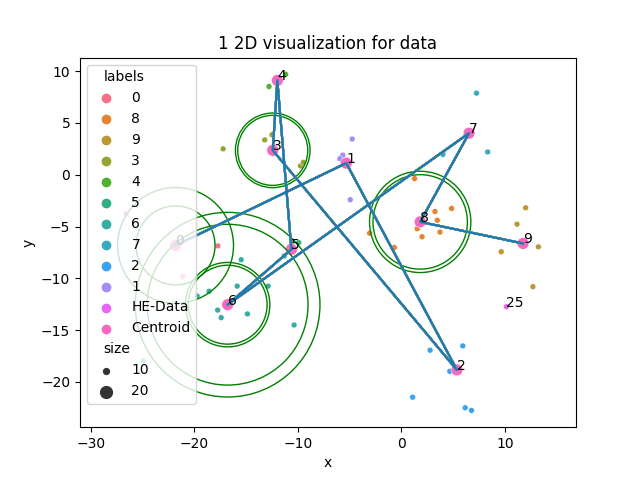
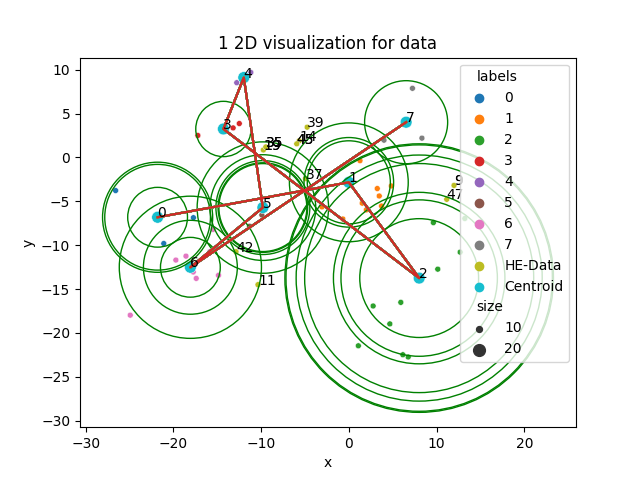
STABLE: using more HE points and comparing with all clusters (not just neighbors); need to fix empty partitions too

diff --git a/run_tests/test_he_data.py b/run_tests/test_he_data.py
@@ -3,6 +3,7 @@ sys.path.append("../")
 
 from utils.dataIO import *
 from base.HWKmeans import *
+from base.DCHWKmeans import *
 from pathlib import Path
 import time
 
@@ -17,7 +18,7 @@ Algo2: DCKMeans
 file_list = ['50_2_10.csv']
 
 # file_list = ['ijcnn.csv']
-# file_list = ['magic.csv']
+file_list = ['magic.csv']
 # file_list = ['user_knowledge_train.csv']
 # file_list = ['hapt_train.csv']
 # file_list = ['covertype.csv']
@@ -25,13 +26,13 @@ file_list = ['50_2_10.csv']
 # file_list = ['crop.csv']
 
 data_path = "/Users/schmuck/Documents/OneDrive - Indiana University/Box Sync/PhD/DATASETS"
-data_path = "/Users/schmuck/Library/CloudStorage/OneDrive-IndianaUniversity/Box Sync/PhD/DataCentricHartiganWongClustering"
+# data_path = "/Users/schmuck/Library/CloudStorage/OneDrive-IndianaUniversity/Box Sync/PhD/DataCentricHartiganWongClustering"
 
 # Make changes for adjusting the current directory here
 file_path = os.path.join(data_path, "clustering_data")
 # file_path = os.path.join(Path(__file__).parents[1], "benchmark", "scal_data")
 file_path = os.path.join(data_path, "real_data")
-file_path = os.path.join(data_path, "sample_data")
+# file_path = os.path.join(data_path, "sample_data")
 # file_path = os.path.join(data_path, "clustering_data")
 # file_path = os.path.join(data_path, "data")
 
@@ -39,9 +40,10 @@ file_path = os.path.join(data_path, "sample_data")
 # Set parameters
 threshold = 0.001
 num_iterations = 100
-num_clusters = 8
+clusters = [i for i in range(1, 21)]
+clusters = [15]
 
-seed = 1245
+seed = 1245 
 
 seeds = np.random.randint(1, 1200, 1000)
 seeds = [1]
@@ -56,20 +58,28 @@ for data_file in file_list:
     print("Data Shape :", data.shape)
 
     for seed in seeds:
-        # kmdc_start_time = time.time()
-        # kmdc_centroids, kmdc_iter, dckm_calc = DCKMeans(data, num_clusters, threshold, num_iterations, centers, seed)
-        # kmdc_TraningTime = round(time.time() - kmdc_start_time, 2)
 
-        km_start_time = time.time()
-        km_centroids, km_iter = HWKmeans_test(data, num_clusters, num_iterations, seed)
-        km_TraningTime = round(time.time() - km_start_time, 5)
+        for num_clusters in clusters:
 
-        # km_start_time = time.time()
-        # km_centroids, km_iter = HWKmeans_1(data, num_clusters, num_iterations, seed)
-        # km_TraningTime = round(time.time() - km_start_time, 5)
+            print("\nNum clusters: ", num_clusters, "\n")
 
-        print(km_centroids)
-        # print("Time", km_TraningTime)
+            hw_start_time = time.time()
+            hw_centroids, hw_iter = HWKmeans(data, num_clusters, num_iterations, seed)
+            hw_TraningTime = round(time.time() - hw_start_time, 5)
+
+            dchw_start_time = time.time()
+            dchw_centroids, dchw_iter = DCHWKmeans(data, num_clusters, num_iterations, seed)
+            dchw_TraningTime = round(time.time() - dchw_start_time, 5)
+
+            dev = np.sum(np.square(hw_centroids- dchw_centroids))
+            
+            if dev != 0:
+                print("Deviation not zero for: ", num_clusters )
+                break
+            else:
+                print(dev)
+
+        # print("Time", dchw_TraningTime)
         # print(km_cacl, dckm_calc)
         # print("Dev: ", round(np.sqrt(np.mean(np.square(km_centroids - kmlb_centroids))), 3))
 
